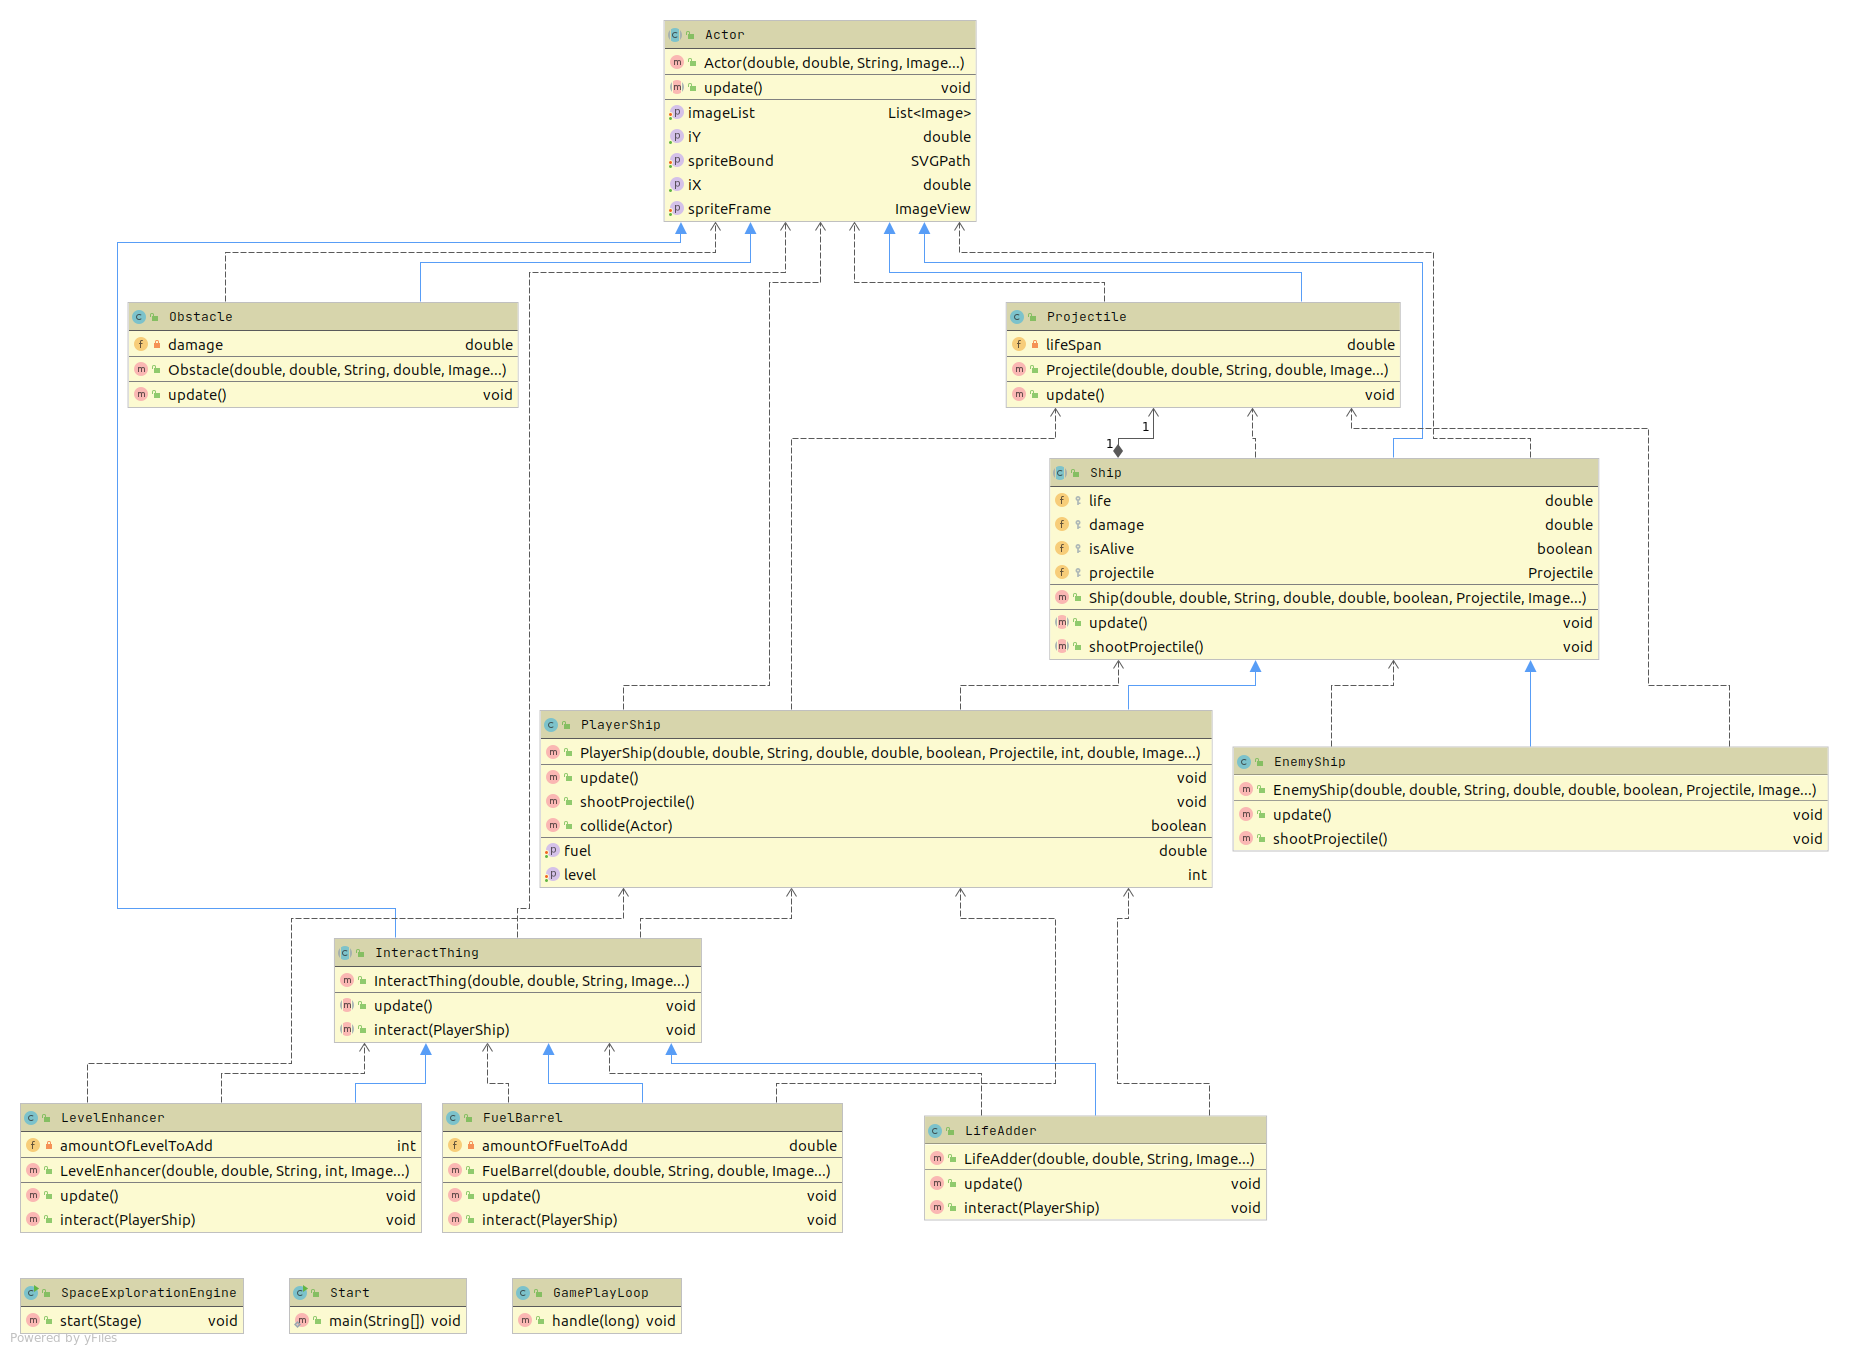
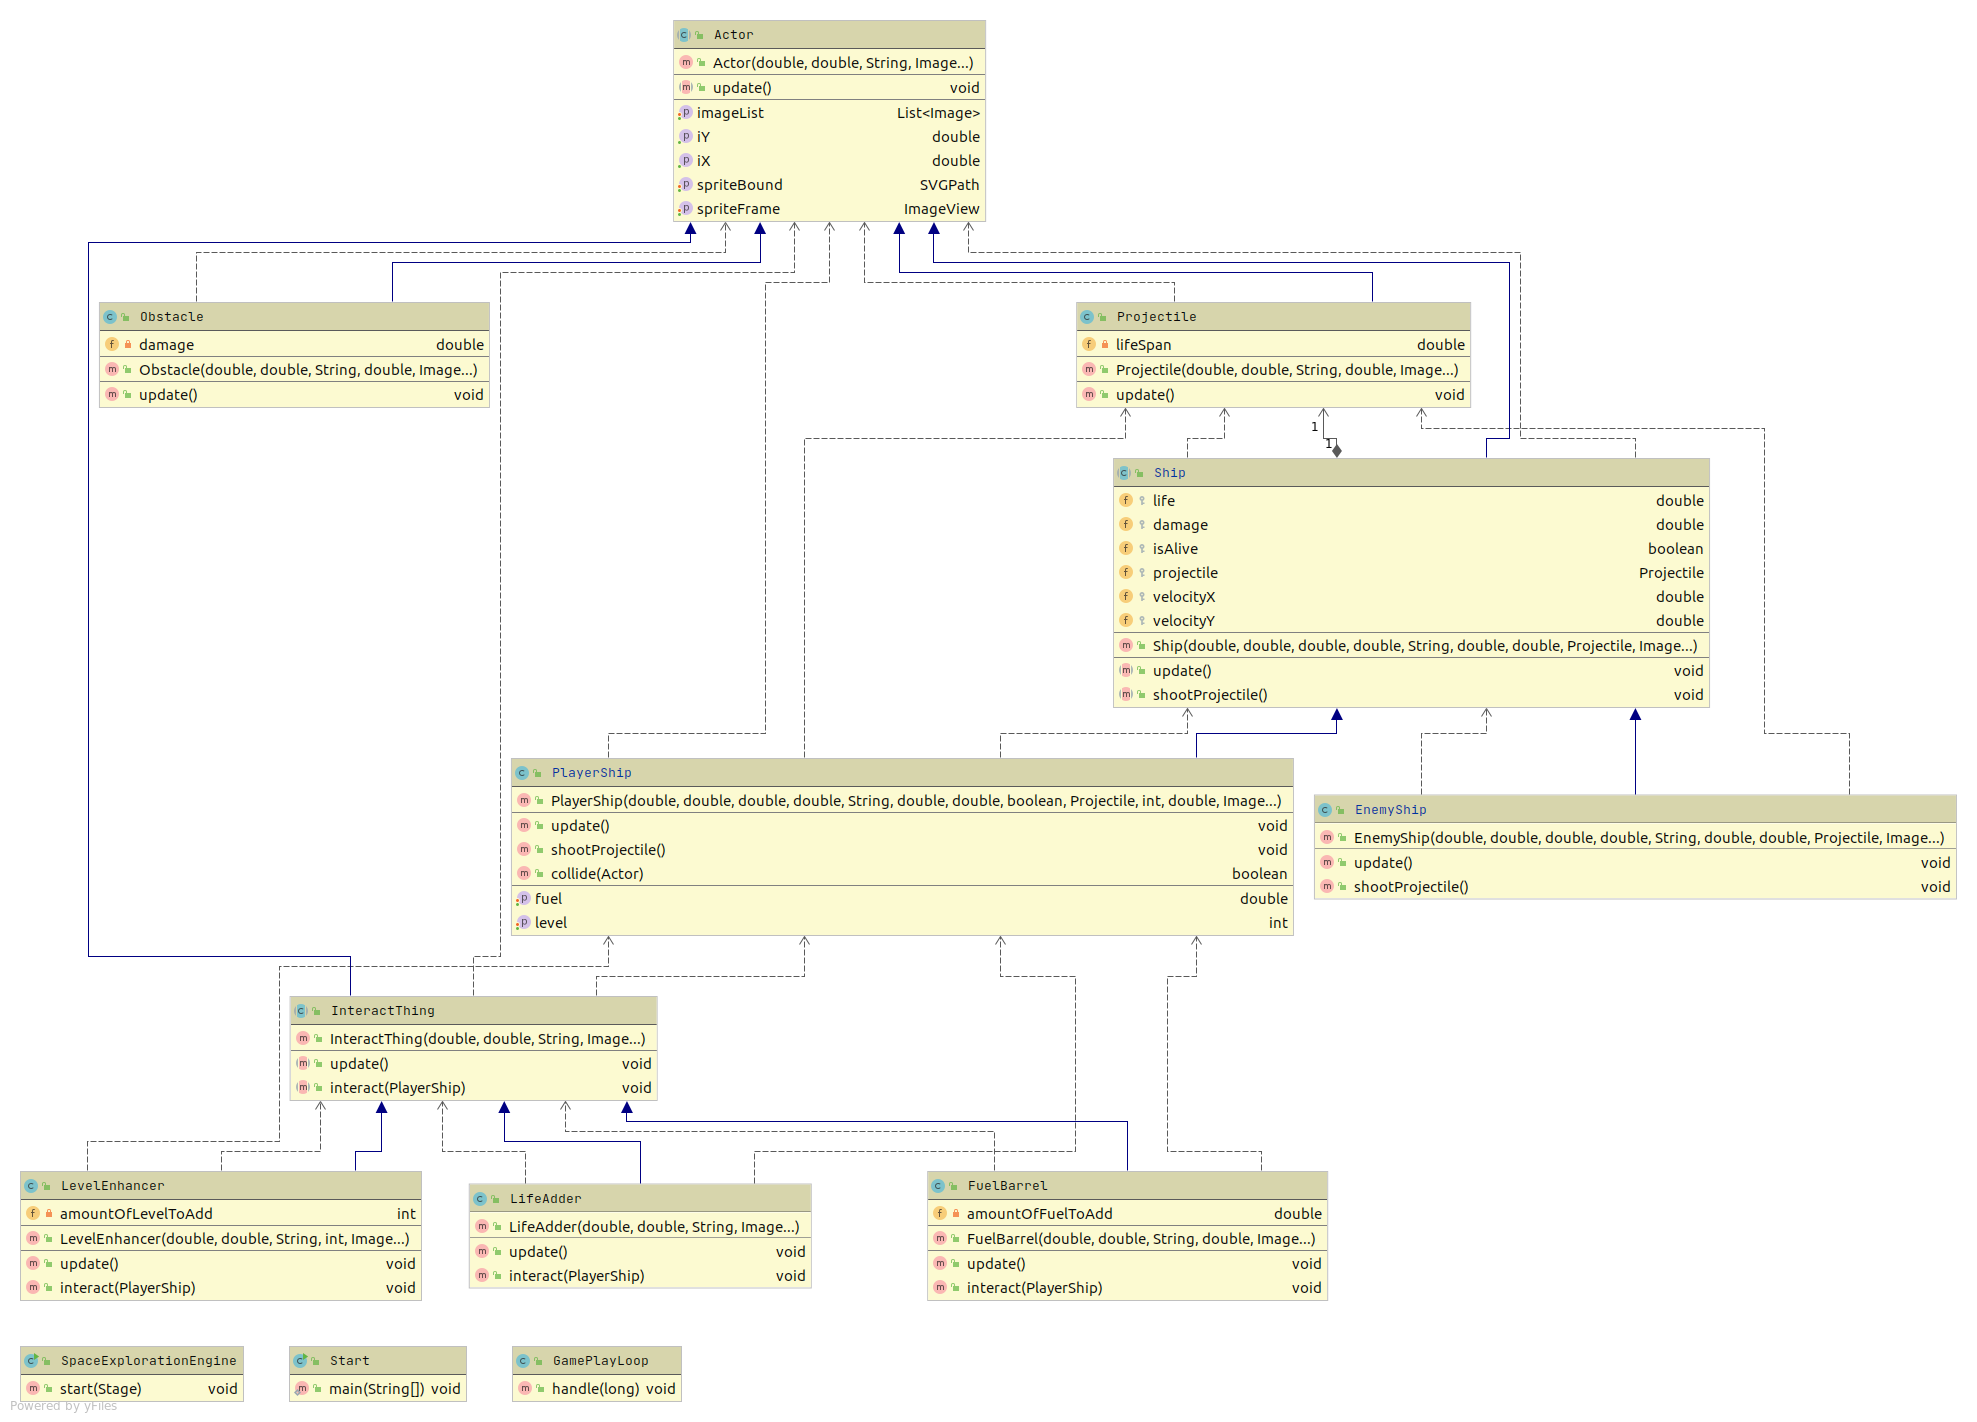
added velocity parameters to ship and updated diagram

Changed region(s): [[0.0, 0.0, 1.0, 0.9926]]

diff --git a/src/main/java/cz/cvut/fel/pjv/model/Ship.java b/src/main/java/cz/cvut/fel/pjv/model/Ship.java
@@ -9,13 +9,16 @@ public abstract class Ship extends Actor {
 	protected double life, damage;
 	protected boolean isAlive;
 	protected Projectile projectile;
+	protected double velocityX, velocityY;
 
-	public Ship(double iX, double iY, String spriteBound, double life, double damage, boolean isAlive, Projectile projectile, Image... spriteImage) {
+	public Ship(double iX, double iY, double velocityX, double velocityY, String spriteBound, double life, double damage, Projectile projectile, Image... spriteImage) {
 		super(iX, iY, spriteBound, spriteImage);
 		this.life = life;
 		this.damage = damage;
-		this.isAlive = isAlive;
 		this.projectile = projectile;
+		this.velocityX = velocityX;
+		this.velocityY = velocityY;
+		isAlive = true;
 	}
 
 	@Override

diff --git a/src/main/java/cz/cvut/fel/pjv/model/PlayerShip.java b/src/main/java/cz/cvut/fel/pjv/model/PlayerShip.java
@@ -9,8 +9,8 @@ public class PlayerShip extends Ship {
 	private int level; // current level of ship
 	private double fuel; // amount of fuel in ship
 
-	public PlayerShip(double iX, double iY, String spriteBound, double life, double damage, boolean isAlive, Projectile projectile, int level, double fuel, Image... spriteImage) {
-		super(iX, iY, spriteBound, life, damage, isAlive, projectile, spriteImage);
+	public PlayerShip(double iX, double iY, double velocityX, double velocityY, String spriteBound, double life, double damage, boolean isAlive, Projectile projectile, int level, double fuel, Image... spriteImage) {
+		super(iX, iY, velocityX, velocityY, spriteBound, life, damage, projectile, spriteImage);
 		this.level = level;
 		this.fuel = fuel;
 	}

diff --git a/src/main/java/cz/cvut/fel/pjv/model/EnemyShip.java b/src/main/java/cz/cvut/fel/pjv/model/EnemyShip.java
@@ -6,8 +6,8 @@ import javafx.scene.image.Image;
  * Enemy Ship object, which can shoot projectile
  */
 public class EnemyShip extends Ship {
-	public EnemyShip(double iX, double iY, String spriteBound, double life, double damage, boolean isAlive, Projectile projectile, Image... spriteImage) {
-		super(iX, iY, spriteBound, life, damage, isAlive, projectile, spriteImage);
+	public EnemyShip(double iX, double iY, double velocityX, double velocityY, String spriteBound, double life, double damage, Projectile projectile, Image... spriteImage) {
+		super(iX, iY, velocityX, velocityY, spriteBound, life, damage, projectile, spriteImage);
 	}
 
 	@Override
